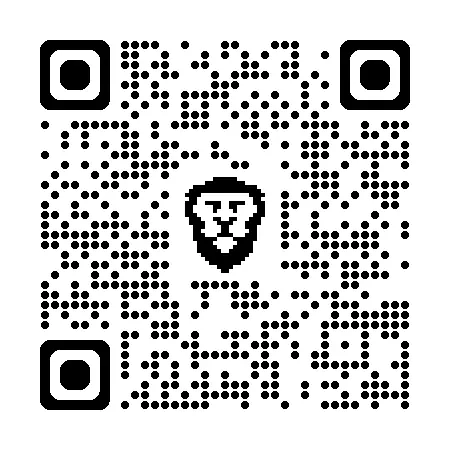
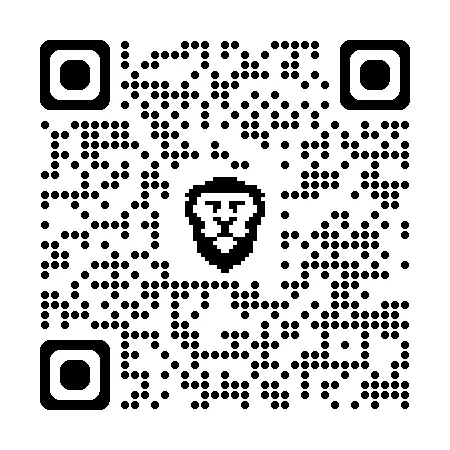
Fixed div tag. Changed instagram link. Added keyword and section for storage service.

diff --git a/en/index.html b/en/index.html
@@ -4,15 +4,15 @@
       <meta charset="UTF-8" />
       <meta name="viewport" content="width=device-width, initial-scale=1.0" />
       <title>
-         Mini Relocations | Motorcycle Transport | Motorcycle Towing
+         Mini Relocations | Motorcycle Transport | Motorcycle Towing | Motorcycle Storage
       </title>
       <meta
          name="description"
-         content="Mini relocations and Motorcycle Transport in Belgrade – a practical solution for fast and safe mini relocations, as well as transport of all types of motorcycles. We also provide professional motorcycle towing and storage services, all from our Autokomanda location."
+         content="Mini relocations and Motorcycle Transport in Belgrade – a practical solution for fast and safe mini relocations, as well as transport of all types of motorcycles. We also provide professional motorcycle towing and motorcycle storage, all from our Autokomanda location."
          />
       <meta
          name="keywords"
-         content="mini relocations, mini relocations Belgrade, motorcycle transport, motorbike transport Belgrade, motorcycle towing, motorcycle towing Belgrade"
+         content="mini relocations, mini relocations Belgrade, motorcycle transport, motorbike transport Belgrade, motorcycle towing, motorcycle towing Belgrade, motorcycle storage"
          />
       <meta name="robots" content="index, follow" />
       <meta name="author" content="Mini Relocations" />
@@ -95,7 +95,7 @@
            },
            "url": "https://www.miniselidbe.rs/en",
            "openingHours": "Mo,Tu,We,Th,Fr,Sa,Su 09:00-18:00",
-           "description": "Mini relocations, motorcycle transport, and motorcycle towing in Belgrade, Serbia."
+           "description": "Mini relocations, motorcycle transport, motorcycle towing and motorcycle storage in Belgrade, Serbia."
          }
       </script>
       <style>
@@ -176,36 +176,53 @@
                   </p>
                </div>
             </div>
+            <!-- Storage -->
+            <div
+               class="bg-gray-800 rounded-lg overflow-hidden shadow-lg cursor-pointer hover:scale-105 transition-transform duration-300"
+               >
+               <img
+                  src="../images/storage/storage1.webp"
+                  alt="Motorcycle storage"
+                  class="w-full h-64 object-cover"
+                  />
+               <div class="p-6">
+                  <h3 class="text-xl font-bold mb-2">Storage</h3>
+                  <p class="text-gray-300 text-sm">
+                     Secure storage for all types of motorcycles and motorcycle equipment.
+                  </p>
+               </div>
+            </div>
          </div>
       </section>
       <!-- Location -->
       <section class="max-w-7xl mx-auto px-6 py-16">
          <h2 class="text-3xl font-bold text-center mb-8">Our Location</h2>
          <div class="flex flex-col md:flex-row gap-8">
-         <!-- Map -->
-         <div class="w-full md:w-2/3 h-96">
-            <iframe
-               src="https://www.google.com/maps/embed?pb=!1m18!1m12!1m3!1d5663.139975907827!2d20.458970347809736!3d44.78957129854373!2m3!1f0!2f0!3f0!3m2!1i1024!2i768!4f13.1!3m3!1m2!1s0x475a706caa02b55f%3A0x5ca197ebb70c0041!2zQXV0b2tvbWFuZGFuYSwgQmVvZ3JhZA!5e0!3m2!1sen!2srs!4v1755165703517!5m2!1sen!2srs"
-               width="100%"
-               height="100%"
-               style="border: 0"
-               allowfullscreen=""
-               loading="lazy"
-               referrerpolicy="no-referrer-when-downgrade"
-               class="rounded-lg shadow-lg"
-               title="Location map - Autokomanda"
-               ></iframe>
-         </div>
-         <!-- Address & Info -->
-         <div class="w-full md:w-1/3 flex flex-col justify-center">
-            <h3 class="text-xl font-semibold mb-4">Visit Us in Belgrade</h3>
-            <p class="text-gray-300 mb-2">
-               Autokomanda, Belgrade 11000<br />
-               Serbia
-            </p>
-            <p class="text-gray-400 text-sm">
-               We are located in the heart of Belgrade at Autokomanda — providing fast access to all parts of the city, making your relocations easier and more efficient.
-            </p>
+            <!-- Map -->
+            <div class="w-full md:w-2/3 h-96">
+               <iframe
+                  src="https://www.google.com/maps/embed?pb=!1m18!1m12!1m3!1d5663.139975907827!2d20.458970347809736!3d44.78957129854373!2m3!1f0!2f0!3f0!3m2!1i1024!2i768!4f13.1!3m3!1m2!1s0x475a706caa02b55f%3A0x5ca197ebb70c0041!2zQXV0b2tvbWFuZGFuYSwgQmVvZ3JhZA!5e0!3m2!1sen!2srs!4v1755165703517!5m2!1sen!2srs"
+                  width="100%"
+                  height="100%"
+                  style="border: 0"
+                  allowfullscreen=""
+                  loading="lazy"
+                  referrerpolicy="no-referrer-when-downgrade"
+                  class="rounded-lg shadow-lg"
+                  title="Location map - Autokomanda"
+                  ></iframe>
+            </div>
+            <!-- Address & Info -->
+            <div class="w-full md:w-1/3 flex flex-col justify-center">
+               <h3 class="text-xl font-semibold mb-4">Visit Us in Belgrade</h3>
+               <p class="text-gray-300 mb-2">
+                  Autokomanda, Belgrade 11000<br />
+                  Serbia
+               </p>
+               <p class="text-gray-400 text-sm">
+                  We are located in the heart of Belgrade at Autokomanda — providing fast access to all parts of the city, making your relocations easier and more efficient.
+               </p>
+            </div>
          </div>
       </section>
       <!-- Contact -->
@@ -218,7 +235,7 @@
             <div class="w-full md:w-1/2 flex flex-col items-center justify-center">
                <p class="text-lg mb-4">Contact us on Instagram</p>
                <a
-                  href="https://www.instagram.com/miniselidbebgautokomanda?igsh=MXJ6bmN4NXR0eWRxOA%3D%3D&utm_source=qr"
+                  href="https://www.instagram.com/miniselidbebgautokomanda/"
                   target="_blank"
                   rel="noopener noreferrer"
                   class="flex items-center gap-2 text-blue-400 hover:text-blue-300 transition mb-4"
@@ -378,25 +395,7 @@
       <!-- Fancybox JS -->
       <script src="../assets/js/fancybox.umd.js"></script>
       <script>
-         Fancybox.bind('[data-fancybox="gallery"]', {
-           Carousel: {
-             Thumbs: true,
-             Toolbar: {
-               display: {
-                 left: [],
-                 middle: [],
-                 right: ["close"],
-               },
-             },
-             Zoomable: {
-               Panzoom: {
-                 maxScale: "cover",
-                 panMode: "mousemove",
-                 mouseMoveFactor: 1.1,
-               },
-             },
-           },
-         });
+         Fancybox.bind('[data-fancybox="gallery"]', {});
       </script>
    </body>
 </html>

diff --git a/index.html b/index.html
@@ -4,15 +4,15 @@
       <meta charset="UTF-8" />
       <meta name="viewport" content="width=device-width, initial-scale=1.0" />
       <title>
-         Mini Selidbe | Transport Motora | Šlep Motora
+         Mini Selidbe | Transport Motora | Šlep Motora | Skladište Motora
       </title>
       <meta
          name="description"
-         content="Mini Selidbe I Transport Motora u Beogradu – praktično rešenje za brze i sigurne mini selidbe, kao i prevoz svih vrsta motora. Takođe nudimo profesionalnu uslugu šlepovanja i čuvanja motora, sve sa lokacije na Autokomandi."
+         content="Mini Selidbe I Transport Motora u Beogradu – praktično rešenje za brze i sigurne mini selidbe, kao i prevoz svih vrsta motora. Takođe nudimo profesionalnu uslugu šlepovanja i skladištenja motora, sve sa lokacije na Autokomandi."
          />
       <meta
          name="keywords"
-         content="mini selidbe, mini selidbe Beograd, transport motora, transport motora Beograd, šlep motora, šlep motora Beograd"
+         content="mini selidbe, mini selidbe Beograd, transport motora, transport motora Beograd, šlep motora, šlep motora Beograd, skladište motora"
          />
       <meta name="robots" content="index, follow" />
       <meta name="author" content="Mini Selidbe" />
@@ -95,7 +95,7 @@
            },
            "url": "https://www.miniselidbe.rs",
            "openingHours": "Mo,Tu,We,Th,Fr,Sa,Su 09:00-18:00",
-           "description": "Mini selidbe, transport motora, i šlep motora u Beogradu, Srbija."
+           "description": "Mini selidbe, transport motora, šlep motora i skladište motora u Beogradu, Srbija."
          }
       </script>
       <style>
@@ -176,36 +176,53 @@
                   </p>
                </div>
             </div>
+            <!-- Storage -->
+            <div
+               class="bg-gray-800 rounded-lg overflow-hidden shadow-lg cursor-pointer hover:scale-105 transition-transform duration-300"
+               >
+               <img
+                  src="images/storage/storage1.webp"
+                  alt="Skladište za motore"
+                  class="w-full h-64 object-cover"
+                  />
+               <div class="p-6">
+                  <h3 class="text-xl font-bold mb-2">Skladište</h3>
+                  <p class="text-gray-300 text-sm">
+                     Bezbedno skladište za sve vrste motora, i moto opreme.
+                  </p>
+               </div>
+            </div>
          </div>
       </section>
       <!-- Location -->
       <section class="max-w-7xl mx-auto px-6 py-16">
          <h2 class="text-3xl font-bold text-center mb-8">Gde se nalazimo</h2>
          <div class="flex flex-col md:flex-row gap-8">
-         <!-- Map -->
-         <div class="w-full md:w-2/3 h-96">
-            <iframe
-               src="https://www.google.com/maps/embed?pb=!1m18!1m12!1m3!1d5663.139975907827!2d20.458970347809736!3d44.78957129854373!2m3!1f0!2f0!3f0!3m2!1i1024!2i768!4f13.1!3m3!1m2!1s0x475a706caa02b55f%3A0x5ca197ebb70c0041!2z0JDRg9GC0L7QutC-0LzQsNC90LTQsCwg0JHQtdC-0LPRgNCw0LQ!5e0!3m2!1ssr!2srs!4v1755165703517!5m2!1ssr!2srs"
-               width="100%"
-               height="100%"
-               style="border: 0"
-               allowfullscreen=""
-               loading="lazy"
-               referrerpolicy="no-referrer-when-downgrade"
-               class="rounded-lg shadow-lg"
-               title="Mapa lokacije - Autokomanda"
-               ></iframe>
-         </div>
-         <!-- Address & Info -->
-         <div class="w-full md:w-1/3 flex flex-col justify-center">
-            <h3 class="text-xl font-semibold mb-4">Posetite nas u Beogradu</h3>
-            <p class="text-gray-300 mb-2">
-               Autokomanda, Beograd 11000<br />
-               Srbija
-            </p>
-            <p class="text-gray-400 text-sm">
-               Nalazimo se u srcu Beograda na Autokomandi — sa ove lokacije omogućena je brza dostupnost svih delova grada, što vaše selidbe čini efikasnijim i jednostavnijim.
-            </p>
+            <!-- Map -->
+            <div class="w-full md:w-2/3 h-96">
+               <iframe
+                  src="https://www.google.com/maps/embed?pb=!1m18!1m12!1m3!1d5663.139975907827!2d20.458970347809736!3d44.78957129854373!2m3!1f0!2f0!3f0!3m2!1i1024!2i768!4f13.1!3m3!1m2!1s0x475a706caa02b55f%3A0x5ca197ebb70c0041!2z0JDRg9GC0L7QutC-0LzQsNC90LTQsCwg0JHQtdC-0LPRgNCw0LQ!5e0!3m2!1ssr!2srs!4v1755165703517!5m2!1ssr!2srs"
+                  width="100%"
+                  height="100%"
+                  style="border: 0"
+                  allowfullscreen=""
+                  loading="lazy"
+                  referrerpolicy="no-referrer-when-downgrade"
+                  class="rounded-lg shadow-lg"
+                  title="Mapa lokacije - Autokomanda"
+                  ></iframe>
+            </div>
+            <!-- Address & Info -->
+            <div class="w-full md:w-1/3 flex flex-col justify-center">
+               <h3 class="text-xl font-semibold mb-4">Posetite nas u Beogradu</h3>
+               <p class="text-gray-300 mb-2">
+                  Autokomanda, Beograd 11000<br />
+                  Srbija
+               </p>
+               <p class="text-gray-400 text-sm">
+                  Nalazimo se u srcu Beograda na Autokomandi — sa ove lokacije omogućena je brza dostupnost svih delova grada, što vaše selidbe čini efikasnijim i jednostavnijim.
+               </p>
+            </div>
          </div>
       </section>
       <!-- Contact -->
@@ -218,7 +235,7 @@
             <div class="w-full md:w-1/2 flex flex-col items-center justify-center">
                <p class="text-lg mb-4">Kontaktirajte nas preko Instagrama</p>
                <a
-                  href="https://www.instagram.com/miniselidbebgautokomanda?igsh=MXJ6bmN4NXR0eWRxOA%3D%3D&utm_source=qr"
+                  href="https://www.instagram.com/miniselidbebgautokomanda/"
                   target="_blank"
                   rel="noopener noreferrer"
                   class="flex items-center gap-2 text-blue-400 hover:text-blue-300 transition mb-4"
@@ -378,25 +395,7 @@
       <!-- Fancybox JS -->
       <script src="assets/js/fancybox.umd.js"></script>
       <script>
-         Fancybox.bind('[data-fancybox="gallery"]', {
-           Carousel: {
-             Thumbs: true,
-             Toolbar: {
-               display: {
-                 left: [],
-                 middle: [],
-                 right: ["close"],
-               },
-             },
-             Zoomable: {
-               Panzoom: {
-                 maxScale: "cover",
-                 panMode: "mousemove",
-                 mouseMoveFactor: 1.1,
-               },
-             },
-           },
-         });
+         Fancybox.bind('[data-fancybox="gallery"]', {});
       </script>
    </body>
 </html>
